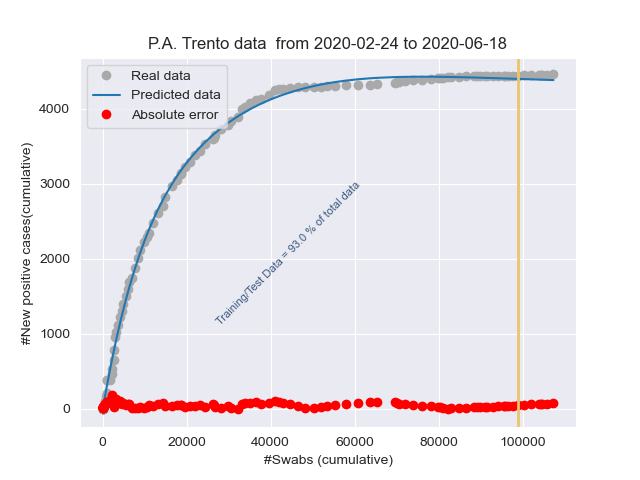
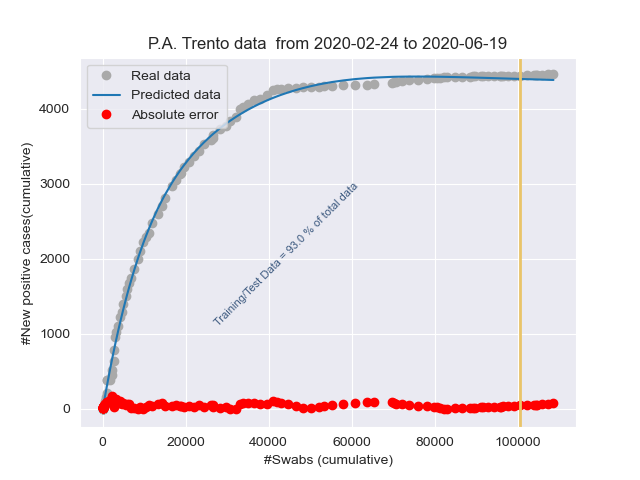
Add files via upload

diff --git a/stat_Friuli Venezia Giulia.html b/stat_Friuli Venezia Giulia.html
@@ -1,1 +1,1 @@
-<!DOCTYPE html><html lang="it"><head><title>Results</title><meta charset="utf-8"><meta name="viewport" content="width=device-width, initial-scale=1"><link rel="stylesheet" href="bootstrap.min.css"><script src="https://ajax.googleapis.com/ajax/libs/jquery/3.4.1/jquery.min.js"></script><script src="https://maxcdn.bootstrapcdn.com/bootstrap/3.4.1/js/bootstrap.min.js"></script></head><body><h3>Day: 2020-06-18</h3><p class="lead my-3">New positive cases: <b>2</b></p><p class="lead my-3">Variation of positive cases: <b>0.0%</b></p><p class="lead my-3">Number of swabs: <b>1421.0</b></p><p class="lead my-3">Variation of swabs: <b>0.86%</b></p><p class="lead my-3">Postive cases/Swabs: <b>0.14 %</b></p><p class="lead my-3">Number of people admitted to Intensive care: <b>1</b></p><p class="lead my-3">Number of recovered people: <b>4.0</b></p><p class="lead my-3">Number of dead people: <b>0.0</b></p><h3>Total</h3><p class="lead my-3">Population of  Friuli Venezia Giulia: <b>1215220</b> <a href="http://dati.istat.it/Index.aspx?QueryId=18548" target="_blank">ISTAT data</a></p><p class="lead my-3">Total number of positive cases from 2020-02-24 00:00:00 to 2020-06-18: <b> 3301</b></p><p class="lead my-3">Total number of swabs from 2020-02-24 00:00:00 to 2020-06-18: <b> 167485</b></p><p class="lead my-3">TotalSwabs/Population: <b> 13.78%</b></p></body></html>
+<!DOCTYPE html><html lang="it"><head><title>Results</title><meta charset="utf-8"><meta name="viewport" content="width=device-width, initial-scale=1"><link rel="stylesheet" href="bootstrap.min.css"><script src="https://ajax.googleapis.com/ajax/libs/jquery/3.4.1/jquery.min.js"></script><script src="https://maxcdn.bootstrapcdn.com/bootstrap/3.4.1/js/bootstrap.min.js"></script></head><body><h3>Day: 2020-06-19</h3><p class="lead my-3">New positive cases: <b>2</b></p><p class="lead my-3">Variation of positive cases: <b>0.0%</b></p><p class="lead my-3">Number of swabs: <b>2624.0</b></p><p class="lead my-3">Variation of swabs: <b>1.57%</b></p><p class="lead my-3">Postive cases/Swabs: <b>0.08 %</b></p><p class="lead my-3">Number of people admitted to Intensive care: <b>0</b></p><p class="lead my-3">Number of recovered people: <b>14.0</b></p><p class="lead my-3">Number of dead people: <b>0.0</b></p><h3>Total</h3><p class="lead my-3">Population of  Friuli Venezia Giulia: <b>1215220</b> <a href="http://dati.istat.it/Index.aspx?QueryId=18548" target="_blank">ISTAT data</a></p><p class="lead my-3">Total number of positive cases from 2020-02-24 00:00:00 to 2020-06-19: <b> 3303</b></p><p class="lead my-3">Total number of swabs from 2020-02-24 00:00:00 to 2020-06-19: <b> 170109</b></p><p class="lead my-3">TotalSwabs/Population: <b> 14.0%</b></p></body></html>

diff --git a/stat_Emilia-Romagna.html b/stat_Emilia-Romagna.html
@@ -1,1 +1,1 @@
-<!DOCTYPE html><html lang="it"><head><title>Results</title><meta charset="utf-8"><meta name="viewport" content="width=device-width, initial-scale=1"><link rel="stylesheet" href="bootstrap.min.css"><script src="https://ajax.googleapis.com/ajax/libs/jquery/3.4.1/jquery.min.js"></script><script src="https://maxcdn.bootstrapcdn.com/bootstrap/3.4.1/js/bootstrap.min.js"></script></head><body><h3>Day: 2020-06-18</h3><p class="lead my-3">New positive cases: <b>32</b></p><p class="lead my-3">Variation of positive cases: <b>128.57%</b></p><p class="lead my-3">Number of swabs: <b>8621.0</b></p><p class="lead my-3">Variation of swabs: <b>2.02%</b></p><p class="lead my-3">Postive cases/Swabs: <b>0.37 %</b></p><p class="lead my-3">Number of people admitted to Intensive care: <b>11</b></p><p class="lead my-3">Number of recovered people: <b>92.0</b></p><p class="lead my-3">Number of dead people: <b>4.0</b></p><h3>Total</h3><p class="lead my-3">Population of  Emilia-Romagna: <b>4459477</b> <a href="http://dati.istat.it/Index.aspx?QueryId=18548" target="_blank">ISTAT data</a></p><p class="lead my-3">Total number of positive cases from 2020-02-24 00:00:00 to 2020-06-18: <b> 28143</b></p><p class="lead my-3">Total number of swabs from 2020-02-24 00:00:00 to 2020-06-18: <b> 435351</b></p><p class="lead my-3">TotalSwabs/Population: <b> 9.76%</b></p></body></html>
+<!DOCTYPE html><html lang="it"><head><title>Results</title><meta charset="utf-8"><meta name="viewport" content="width=device-width, initial-scale=1"><link rel="stylesheet" href="bootstrap.min.css"><script src="https://ajax.googleapis.com/ajax/libs/jquery/3.4.1/jquery.min.js"></script><script src="https://maxcdn.bootstrapcdn.com/bootstrap/3.4.1/js/bootstrap.min.js"></script></head><body><h3>Day: 2020-06-19</h3><p class="lead my-3">New positive cases: <b>27</b></p><p class="lead my-3">Variation of positive cases: <b>-15.62%</b></p><p class="lead my-3">Number of swabs: <b>7950.0</b></p><p class="lead my-3">Variation of swabs: <b>1.83%</b></p><p class="lead my-3">Postive cases/Swabs: <b>0.34 %</b></p><p class="lead my-3">Number of people admitted to Intensive care: <b>11</b></p><p class="lead my-3">Number of recovered people: <b>84.0</b></p><p class="lead my-3">Number of dead people: <b>5.0</b></p><h3>Total</h3><p class="lead my-3">Population of  Emilia-Romagna: <b>4459477</b> <a href="http://dati.istat.it/Index.aspx?QueryId=18548" target="_blank">ISTAT data</a></p><p class="lead my-3">Total number of positive cases from 2020-02-24 00:00:00 to 2020-06-19: <b> 28170</b></p><p class="lead my-3">Total number of swabs from 2020-02-24 00:00:00 to 2020-06-19: <b> 443301</b></p><p class="lead my-3">TotalSwabs/Population: <b> 9.94%</b></p></body></html>

diff --git a/stat_Lombardia.html b/stat_Lombardia.html
@@ -1,1 +1,1 @@
-<!DOCTYPE html><html lang="it"><head><title>Results</title><meta charset="utf-8"><meta name="viewport" content="width=device-width, initial-scale=1"><link rel="stylesheet" href="bootstrap.min.css"><script src="https://ajax.googleapis.com/ajax/libs/jquery/3.4.1/jquery.min.js"></script><script src="https://maxcdn.bootstrapcdn.com/bootstrap/3.4.1/js/bootstrap.min.js"></script></head><body><h3>Day: 2020-06-18</h3><p class="lead my-3">New positive cases: <b>216</b></p><p class="lead my-3">Variation of positive cases: <b>-10.74%</b></p><p class="lead my-3">Number of swabs: <b>11475.0</b></p><p class="lead my-3">Variation of swabs: <b>1.25%</b></p><p class="lead my-3">Postive cases/Swabs: <b>1.88 %</b></p><p class="lead my-3">Number of people admitted to Intensive care: <b>60</b></p><p class="lead my-3">Number of recovered people: <b>505.0</b></p><p class="lead my-3">Number of dead people: <b>36.0</b></p><h3>Total</h3><p class="lead my-3">Population of  Lombardia: <b>10060574</b> <a href="http://dati.istat.it/Index.aspx?QueryId=18548" target="_blank">ISTAT data</a></p><p class="lead my-3">Total number of positive cases from 2020-02-24 00:00:00 to 2020-06-18: <b> 92512</b></p><p class="lead my-3">Total number of swabs from 2020-02-24 00:00:00 to 2020-06-18: <b> 929356</b></p><p class="lead my-3">TotalSwabs/Population: <b> 9.24%</b></p></body></html>
+<!DOCTYPE html><html lang="it"><head><title>Results</title><meta charset="utf-8"><meta name="viewport" content="width=device-width, initial-scale=1"><link rel="stylesheet" href="bootstrap.min.css"><script src="https://ajax.googleapis.com/ajax/libs/jquery/3.4.1/jquery.min.js"></script><script src="https://maxcdn.bootstrapcdn.com/bootstrap/3.4.1/js/bootstrap.min.js"></script></head><body><h3>Day: 2020-06-19</h3><p class="lead my-3">New positive cases: <b>157</b></p><p class="lead my-3">Variation of positive cases: <b>-27.31%</b></p><p class="lead my-3">Number of swabs: <b>10464.0</b></p><p class="lead my-3">Variation of swabs: <b>1.13%</b></p><p class="lead my-3">Postive cases/Swabs: <b>1.5 %</b></p><p class="lead my-3">Number of people admitted to Intensive care: <b>60</b></p><p class="lead my-3">Number of recovered people: <b>741.0</b></p><p class="lead my-3">Number of dead people: <b>18.0</b></p><h3>Total</h3><p class="lead my-3">Population of  Lombardia: <b>10060574</b> <a href="http://dati.istat.it/Index.aspx?QueryId=18548" target="_blank">ISTAT data</a></p><p class="lead my-3">Total number of positive cases from 2020-02-24 00:00:00 to 2020-06-19: <b> 92669</b></p><p class="lead my-3">Total number of swabs from 2020-02-24 00:00:00 to 2020-06-19: <b> 939820</b></p><p class="lead my-3">TotalSwabs/Population: <b> 9.34%</b></p></body></html>

diff --git a/stat_Italy.html b/stat_Italy.html
@@ -1,1 +1,1 @@
-<!DOCTYPE html><html lang="it"><head><title>Results</title><meta charset="utf-8"><meta name="viewport" content="width=device-width, initial-scale=1"><link rel="stylesheet" href="bootstrap.min.css"><script src="https://ajax.googleapis.com/ajax/libs/jquery/3.4.1/jquery.min.js"></script><script src="https://maxcdn.bootstrapcdn.com/bootstrap/3.4.1/js/bootstrap.min.js"></script></head><body><h3>Day: 2020-06-18</h3><p class="lead my-3">New positive cases: <b>333</b></p><p class="lead my-3">Variation of positive cases: <b>1.22%</b></p><p class="lead my-3">Number of swabs: <b>58154.0</b></p><p class="lead my-3">Variation of swabs: <b>1.22%</b></p><p class="lead my-3">Postive cases/Swabs: <b>0.57 %</b></p><p class="lead my-3">Number of people admitted to Intensive care: <b>168</b></p><p class="lead my-3">Number of recovered people: <b>1089.0</b></p><p class="lead my-3">Number of dead people: <b>66.0</b></p><h3>Total</h3><p class="lead my-3">Population of  Italy: <b>60359546</b> <a href="http://dati.istat.it/Index.aspx?QueryId=18548" target="_blank">ISTAT data</a></p><p class="lead my-3">Total number of positive cases from 2020-02-24 00:00:00 to 2020-06-18: <b> 238156</b></p><p class="lead my-3">Total number of swabs from 2020-02-24 00:00:00 to 2020-06-18: <b> 4831562</b></p><p class="lead my-3">TotalSwabs/Population: <b> 8.0%</b></p></body></html>
+<!DOCTYPE html><html lang="it"><head><title>Results</title><meta charset="utf-8"><meta name="viewport" content="width=device-width, initial-scale=1"><link rel="stylesheet" href="bootstrap.min.css"><script src="https://ajax.googleapis.com/ajax/libs/jquery/3.4.1/jquery.min.js"></script><script src="https://maxcdn.bootstrapcdn.com/bootstrap/3.4.1/js/bootstrap.min.js"></script></head><body><h3>Day: 2020-06-19</h3><p class="lead my-3">New positive cases: <b>251</b></p><p class="lead my-3">Variation of positive cases: <b>-24.62%</b></p><p class="lead my-3">Number of swabs: <b>57541.0</b></p><p class="lead my-3">Variation of swabs: <b>1.19%</b></p><p class="lead my-3">Postive cases/Swabs: <b>0.44 %</b></p><p class="lead my-3">Number of people admitted to Intensive care: <b>161</b></p><p class="lead my-3">Number of recovered people: <b>1363.0</b></p><p class="lead my-3">Number of dead people: <b>47.0</b></p><h3>Total</h3><p class="lead my-3">Population of  Italy: <b>60359546</b> <a href="http://dati.istat.it/Index.aspx?QueryId=18548" target="_blank">ISTAT data</a></p><p class="lead my-3">Total number of positive cases from 2020-02-24 00:00:00 to 2020-06-19: <b> 238407</b></p><p class="lead my-3">Total number of swabs from 2020-02-24 00:00:00 to 2020-06-19: <b> 4889103</b></p><p class="lead my-3">TotalSwabs/Population: <b> 8.1%</b></p></body></html>

diff --git a/stat_Piemonte.html b/stat_Piemonte.html
@@ -1,1 +1,1 @@
-<!DOCTYPE html><html lang="it"><head><title>Results</title><meta charset="utf-8"><meta name="viewport" content="width=device-width, initial-scale=1"><link rel="stylesheet" href="bootstrap.min.css"><script src="https://ajax.googleapis.com/ajax/libs/jquery/3.4.1/jquery.min.js"></script><script src="https://maxcdn.bootstrapcdn.com/bootstrap/3.4.1/js/bootstrap.min.js"></script></head><body><h3>Day: 2020-06-18</h3><p class="lead my-3">New positive cases: <b>31</b></p><p class="lead my-3">Variation of positive cases: <b>-24.39%</b></p><p class="lead my-3">Number of swabs: <b>3230.0</b></p><p class="lead my-3">Variation of swabs: <b>0.86%</b></p><p class="lead my-3">Postive cases/Swabs: <b>0.96 %</b></p><p class="lead my-3">Number of people admitted to Intensive care: <b>25</b></p><p class="lead my-3">Number of recovered people: <b>120.0</b></p><p class="lead my-3">Number of dead people: <b>6.0</b></p><h3>Total</h3><p class="lead my-3">Population of  Piemonte: <b>4356406</b> <a href="http://dati.istat.it/Index.aspx?QueryId=18548" target="_blank">ISTAT data</a></p><p class="lead my-3">Total number of positive cases from 2020-02-24 00:00:00 to 2020-06-18: <b> 31162</b></p><p class="lead my-3">Total number of swabs from 2020-02-24 00:00:00 to 2020-06-18: <b> 380395</b></p><p class="lead my-3">TotalSwabs/Population: <b> 8.73%</b></p></body></html>
+<!DOCTYPE html><html lang="it"><head><title>Results</title><meta charset="utf-8"><meta name="viewport" content="width=device-width, initial-scale=1"><link rel="stylesheet" href="bootstrap.min.css"><script src="https://ajax.googleapis.com/ajax/libs/jquery/3.4.1/jquery.min.js"></script><script src="https://maxcdn.bootstrapcdn.com/bootstrap/3.4.1/js/bootstrap.min.js"></script></head><body><h3>Day: 2020-06-19</h3><p class="lead my-3">New positive cases: <b>26</b></p><p class="lead my-3">Variation of positive cases: <b>-16.13%</b></p><p class="lead my-3">Number of swabs: <b>4310.0</b></p><p class="lead my-3">Variation of swabs: <b>1.13%</b></p><p class="lead my-3">Postive cases/Swabs: <b>0.6 %</b></p><p class="lead my-3">Number of people admitted to Intensive care: <b>22</b></p><p class="lead my-3">Number of recovered people: <b>131.0</b></p><p class="lead my-3">Number of dead people: <b>7.0</b></p><h3>Total</h3><p class="lead my-3">Population of  Piemonte: <b>4356406</b> <a href="http://dati.istat.it/Index.aspx?QueryId=18548" target="_blank">ISTAT data</a></p><p class="lead my-3">Total number of positive cases from 2020-02-24 00:00:00 to 2020-06-19: <b> 31188</b></p><p class="lead my-3">Total number of swabs from 2020-02-24 00:00:00 to 2020-06-19: <b> 384705</b></p><p class="lead my-3">TotalSwabs/Population: <b> 8.83%</b></p></body></html>

diff --git a/stat_P.A. Trento.html b/stat_P.A. Trento.html
@@ -1,1 +1,1 @@
-<!DOCTYPE html><html lang="it"><head><title>Results</title><meta charset="utf-8"><meta name="viewport" content="width=device-width, initial-scale=1"><link rel="stylesheet" href="bootstrap.min.css"><script src="https://ajax.googleapis.com/ajax/libs/jquery/3.4.1/jquery.min.js"></script><script src="https://maxcdn.bootstrapcdn.com/bootstrap/3.4.1/js/bootstrap.min.js"></script></head><body><h3>Day: 2020-06-18</h3><p class="lead my-3">New positive cases: <b>8</b></p><p class="lead my-3">Variation of positive cases: <b>700.0%</b></p><p class="lead my-3">Number of swabs: <b>1525.0</b></p><p class="lead my-3">Variation of swabs: <b>1.44%</b></p><p class="lead my-3">Postive cases/Swabs: <b>0.52 %</b></p><p class="lead my-3">Number of people admitted to Intensive care: <b>0</b></p><p class="lead my-3">Number of recovered people: <b>7.0</b></p><p class="lead my-3">Number of dead people: <b>0.0</b></p><h3>Total</h3><p class="lead my-3">Population of  P.A. Trento: <b>541098</b> <a href="http://dati.istat.it/Index.aspx?QueryId=18548" target="_blank">ISTAT data</a></p><p class="lead my-3">Total number of positive cases from 2020-02-24 00:00:00 to 2020-06-18: <b> 4457</b></p><p class="lead my-3">Total number of swabs from 2020-02-24 00:00:00 to 2020-06-18: <b> 107366</b></p><p class="lead my-3">TotalSwabs/Population: <b> 19.84%</b></p></body></html>
+<!DOCTYPE html><html lang="it"><head><title>Results</title><meta charset="utf-8"><meta name="viewport" content="width=device-width, initial-scale=1"><link rel="stylesheet" href="bootstrap.min.css"><script src="https://ajax.googleapis.com/ajax/libs/jquery/3.4.1/jquery.min.js"></script><script src="https://maxcdn.bootstrapcdn.com/bootstrap/3.4.1/js/bootstrap.min.js"></script></head><body><h3>Day: 2020-06-19</h3><p class="lead my-3">New positive cases: <b>1</b></p><p class="lead my-3">Variation of positive cases: <b>-87.5%</b></p><p class="lead my-3">Number of swabs: <b>1198.0</b></p><p class="lead my-3">Variation of swabs: <b>1.12%</b></p><p class="lead my-3">Postive cases/Swabs: <b>0.08 %</b></p><p class="lead my-3">Number of people admitted to Intensive care: <b>0</b></p><p class="lead my-3">Number of recovered people: <b>3.0</b></p><p class="lead my-3">Number of dead people: <b>1.0</b></p><h3>Total</h3><p class="lead my-3">Population of  P.A. Trento: <b>541098</b> <a href="http://dati.istat.it/Index.aspx?QueryId=18548" target="_blank">ISTAT data</a></p><p class="lead my-3">Total number of positive cases from 2020-02-24 00:00:00 to 2020-06-19: <b> 4458</b></p><p class="lead my-3">Total number of swabs from 2020-02-24 00:00:00 to 2020-06-19: <b> 108564</b></p><p class="lead my-3">TotalSwabs/Population: <b> 20.06%</b></p></body></html>

diff --git a/stat_Veneto.html b/stat_Veneto.html
@@ -1,1 +1,1 @@
-<!DOCTYPE html><html lang="it"><head><title>Results</title><meta charset="utf-8"><meta name="viewport" content="width=device-width, initial-scale=1"><link rel="stylesheet" href="bootstrap.min.css"><script src="https://ajax.googleapis.com/ajax/libs/jquery/3.4.1/jquery.min.js"></script><script src="https://maxcdn.bootstrapcdn.com/bootstrap/3.4.1/js/bootstrap.min.js"></script></head><body><h3>Day: 2020-06-18</h3><p class="lead my-3">New positive cases: <b>8</b></p><p class="lead my-3">Variation of positive cases: <b>100.0%</b></p><p class="lead my-3">Number of swabs: <b>10603.0</b></p><p class="lead my-3">Variation of swabs: <b>1.27%</b></p><p class="lead my-3">Postive cases/Swabs: <b>0.08 %</b></p><p class="lead my-3">Number of people admitted to Intensive care: <b>1</b></p><p class="lead my-3">Number of recovered people: <b>74.0</b></p><p class="lead my-3">Number of dead people: <b>7.0</b></p><h3>Total</h3><p class="lead my-3">Population of  Veneto: <b>4905854</b> <a href="http://dati.istat.it/Index.aspx?QueryId=18548" target="_blank">ISTAT data</a></p><p class="lead my-3">Total number of positive cases from 2020-02-24 00:00:00 to 2020-06-18: <b> 19232</b></p><p class="lead my-3">Total number of swabs from 2020-02-24 00:00:00 to 2020-06-18: <b> 847997</b></p><p class="lead my-3">TotalSwabs/Population: <b> 17.29%</b></p></body></html>
+<!DOCTYPE html><html lang="it"><head><title>Results</title><meta charset="utf-8"><meta name="viewport" content="width=device-width, initial-scale=1"><link rel="stylesheet" href="bootstrap.min.css"><script src="https://ajax.googleapis.com/ajax/libs/jquery/3.4.1/jquery.min.js"></script><script src="https://maxcdn.bootstrapcdn.com/bootstrap/3.4.1/js/bootstrap.min.js"></script></head><body><h3>Day: 2020-06-19</h3><p class="lead my-3">New positive cases: <b>2</b></p><p class="lead my-3">Variation of positive cases: <b>-75.0%</b></p><p class="lead my-3">Number of swabs: <b>10729.0</b></p><p class="lead my-3">Variation of swabs: <b>1.27%</b></p><p class="lead my-3">Postive cases/Swabs: <b>0.02 %</b></p><p class="lead my-3">Number of people admitted to Intensive care: <b>1</b></p><p class="lead my-3">Number of recovered people: <b>23.0</b></p><p class="lead my-3">Number of dead people: <b>4.0</b></p><h3>Total</h3><p class="lead my-3">Population of  Veneto: <b>4905854</b> <a href="http://dati.istat.it/Index.aspx?QueryId=18548" target="_blank">ISTAT data</a></p><p class="lead my-3">Total number of positive cases from 2020-02-24 00:00:00 to 2020-06-19: <b> 19234</b></p><p class="lead my-3">Total number of swabs from 2020-02-24 00:00:00 to 2020-06-19: <b> 858726</b></p><p class="lead my-3">TotalSwabs/Population: <b> 17.5%</b></p></body></html>

diff --git a/stat_Toscana.html b/stat_Toscana.html
@@ -1,1 +1,1 @@
-<!DOCTYPE html><html lang="it"><head><title>Results</title><meta charset="utf-8"><meta name="viewport" content="width=device-width, initial-scale=1"><link rel="stylesheet" href="bootstrap.min.css"><script src="https://ajax.googleapis.com/ajax/libs/jquery/3.4.1/jquery.min.js"></script><script src="https://maxcdn.bootstrapcdn.com/bootstrap/3.4.1/js/bootstrap.min.js"></script></head><body><h3>Day: 2020-06-18</h3><p class="lead my-3">New positive cases: <b>2</b></p><p class="lead my-3">Variation of positive cases: <b>0.0%</b></p><p class="lead my-3">Number of swabs: <b>3174.0</b></p><p class="lead my-3">Variation of swabs: <b>1.06%</b></p><p class="lead my-3">Postive cases/Swabs: <b>0.06 %</b></p><p class="lead my-3">Number of people admitted to Intensive care: <b>13</b></p><p class="lead my-3">Number of recovered people: <b>7.0</b></p><p class="lead my-3">Number of dead people: <b>1.0</b></p><h3>Total</h3><p class="lead my-3">Population of  Toscana: <b>3729641</b> <a href="http://dati.istat.it/Index.aspx?QueryId=18548" target="_blank">ISTAT data</a></p><p class="lead my-3">Total number of positive cases from 2020-02-24 00:00:00 to 2020-06-18: <b> 10195</b></p><p class="lead my-3">Total number of swabs from 2020-02-24 00:00:00 to 2020-06-18: <b> 303786</b></p><p class="lead my-3">TotalSwabs/Population: <b> 8.15%</b></p></body></html>
+<!DOCTYPE html><html lang="it"><head><title>Results</title><meta charset="utf-8"><meta name="viewport" content="width=device-width, initial-scale=1"><link rel="stylesheet" href="bootstrap.min.css"><script src="https://ajax.googleapis.com/ajax/libs/jquery/3.4.1/jquery.min.js"></script><script src="https://maxcdn.bootstrapcdn.com/bootstrap/3.4.1/js/bootstrap.min.js"></script></head><body><h3>Day: 2020-06-19</h3><p class="lead my-3">New positive cases: <b>10</b></p><p class="lead my-3">Variation of positive cases: <b>400.0%</b></p><p class="lead my-3">Number of swabs: <b>2703.0</b></p><p class="lead my-3">Variation of swabs: <b>0.89%</b></p><p class="lead my-3">Postive cases/Swabs: <b>0.37 %</b></p><p class="lead my-3">Number of people admitted to Intensive care: <b>12</b></p><p class="lead my-3">Number of recovered people: <b>23.0</b></p><p class="lead my-3">Number of dead people: <b>2.0</b></p><h3>Total</h3><p class="lead my-3">Population of  Toscana: <b>3729641</b> <a href="http://dati.istat.it/Index.aspx?QueryId=18548" target="_blank">ISTAT data</a></p><p class="lead my-3">Total number of positive cases from 2020-02-24 00:00:00 to 2020-06-19: <b> 10205</b></p><p class="lead my-3">Total number of swabs from 2020-02-24 00:00:00 to 2020-06-19: <b> 306489</b></p><p class="lead my-3">TotalSwabs/Population: <b> 8.22%</b></p></body></html>

diff --git a/stat_Campania.html b/stat_Campania.html
@@ -1,1 +1,1 @@
-<!DOCTYPE html><html lang="it"><head><title>Results</title><meta charset="utf-8"><meta name="viewport" content="width=device-width, initial-scale=1"><link rel="stylesheet" href="bootstrap.min.css"><script src="https://ajax.googleapis.com/ajax/libs/jquery/3.4.1/jquery.min.js"></script><script src="https://maxcdn.bootstrapcdn.com/bootstrap/3.4.1/js/bootstrap.min.js"></script></head><body><h3>Day: 2020-06-18</h3><p class="lead my-3">New positive cases: <b>1</b></p><p class="lead my-3">Variation of positive cases: <b>0.0%</b></p><p class="lead my-3">Number of swabs: <b>1448.0</b></p><p class="lead my-3">Variation of swabs: <b>0.56%</b></p><p class="lead my-3">Postive cases/Swabs: <b>0.07 %</b></p><p class="lead my-3">Number of people admitted to Intensive care: <b>6</b></p><p class="lead my-3">Number of recovered people: <b>17.0</b></p><p class="lead my-3">Number of dead people: <b>0.0</b></p><h3>Total</h3><p class="lead my-3">Population of  Campania: <b>5801692</b> <a href="http://dati.istat.it/Index.aspx?QueryId=18548" target="_blank">ISTAT data</a></p><p class="lead my-3">Total number of positive cases from 2020-02-24 00:00:00 to 2020-06-18: <b> 4615</b></p><p class="lead my-3">Total number of swabs from 2020-02-24 00:00:00 to 2020-06-18: <b> 259655</b></p><p class="lead my-3">TotalSwabs/Population: <b> 4.48%</b></p></body></html>
+<!DOCTYPE html><html lang="it"><head><title>Results</title><meta charset="utf-8"><meta name="viewport" content="width=device-width, initial-scale=1"><link rel="stylesheet" href="bootstrap.min.css"><script src="https://ajax.googleapis.com/ajax/libs/jquery/3.4.1/jquery.min.js"></script><script src="https://maxcdn.bootstrapcdn.com/bootstrap/3.4.1/js/bootstrap.min.js"></script></head><body><h3>Day: 2020-06-19</h3><p class="lead my-3">New positive cases: <b>0</b></p><p class="lead my-3">Variation of positive cases: <b>-100.0%</b></p><p class="lead my-3">Number of swabs: <b>1987.0</b></p><p class="lead my-3">Variation of swabs: <b>0.77%</b></p><p class="lead my-3">Postive cases/Swabs: <b>0.0 %</b></p><p class="lead my-3">Number of people admitted to Intensive care: <b>3</b></p><p class="lead my-3">Number of recovered people: <b>117.0</b></p><p class="lead my-3">Number of dead people: <b>0.0</b></p><h3>Total</h3><p class="lead my-3">Population of  Campania: <b>5801692</b> <a href="http://dati.istat.it/Index.aspx?QueryId=18548" target="_blank">ISTAT data</a></p><p class="lead my-3">Total number of positive cases from 2020-02-24 00:00:00 to 2020-06-19: <b> 4615</b></p><p class="lead my-3">Total number of swabs from 2020-02-24 00:00:00 to 2020-06-19: <b> 261642</b></p><p class="lead my-3">TotalSwabs/Population: <b> 4.51%</b></p></body></html>

diff --git a/stat_P.A. Bolzano.html b/stat_P.A. Bolzano.html
@@ -1,1 +1,1 @@
-<!DOCTYPE html><html lang="it"><head><title>Results</title><meta charset="utf-8"><meta name="viewport" content="width=device-width, initial-scale=1"><link rel="stylesheet" href="bootstrap.min.css"><script src="https://ajax.googleapis.com/ajax/libs/jquery/3.4.1/jquery.min.js"></script><script src="https://maxcdn.bootstrapcdn.com/bootstrap/3.4.1/js/bootstrap.min.js"></script></head><body><h3>Day: 2020-06-18</h3><p class="lead my-3">New positive cases: <b>2</b></p><p class="lead my-3">Variation of positive cases: <b>inf%</b></p><p class="lead my-3">Number of swabs: <b>724.0</b></p><p class="lead my-3">Variation of swabs: <b>0.94%</b></p><p class="lead my-3">Postive cases/Swabs: <b>0.28 %</b></p><p class="lead my-3">Number of people admitted to Intensive care: <b>2</b></p><p class="lead my-3">Number of recovered people: <b>4.0</b></p><p class="lead my-3">Number of dead people: <b>0.0</b></p><h3>Total</h3><p class="lead my-3">Population of  P.A. Bolzano: <b>531178</b> <a href="http://dati.istat.it/Index.aspx?QueryId=18548" target="_blank">ISTAT data</a></p><p class="lead my-3">Total number of positive cases from 2020-02-24 00:00:00 to 2020-06-18: <b> 2615</b></p><p class="lead my-3">Total number of swabs from 2020-02-24 00:00:00 to 2020-06-18: <b> 77954</b></p><p class="lead my-3">TotalSwabs/Population: <b> 14.68%</b></p></body></html>
+<!DOCTYPE html><html lang="it"><head><title>Results</title><meta charset="utf-8"><meta name="viewport" content="width=device-width, initial-scale=1"><link rel="stylesheet" href="bootstrap.min.css"><script src="https://ajax.googleapis.com/ajax/libs/jquery/3.4.1/jquery.min.js"></script><script src="https://maxcdn.bootstrapcdn.com/bootstrap/3.4.1/js/bootstrap.min.js"></script></head><body><h3>Day: 2020-06-19</h3><p class="lead my-3">New positive cases: <b>2</b></p><p class="lead my-3">Variation of positive cases: <b>0.0%</b></p><p class="lead my-3">Number of swabs: <b>626.0</b></p><p class="lead my-3">Variation of swabs: <b>0.8%</b></p><p class="lead my-3">Postive cases/Swabs: <b>0.32 %</b></p><p class="lead my-3">Number of people admitted to Intensive care: <b>1</b></p><p class="lead my-3">Number of recovered people: <b>12.0</b></p><p class="lead my-3">Number of dead people: <b>0.0</b></p><h3>Total</h3><p class="lead my-3">Population of  P.A. Bolzano: <b>531178</b> <a href="http://dati.istat.it/Index.aspx?QueryId=18548" target="_blank">ISTAT data</a></p><p class="lead my-3">Total number of positive cases from 2020-02-24 00:00:00 to 2020-06-19: <b> 2617</b></p><p class="lead my-3">Total number of swabs from 2020-02-24 00:00:00 to 2020-06-19: <b> 78580</b></p><p class="lead my-3">TotalSwabs/Population: <b> 14.79%</b></p></body></html>

diff --git a/stat_Marche.html b/stat_Marche.html
@@ -1,1 +1,1 @@
-<!DOCTYPE html><html lang="it"><head><title>Results</title><meta charset="utf-8"><meta name="viewport" content="width=device-width, initial-scale=1"><link rel="stylesheet" href="bootstrap.min.css"><script src="https://ajax.googleapis.com/ajax/libs/jquery/3.4.1/jquery.min.js"></script><script src="https://maxcdn.bootstrapcdn.com/bootstrap/3.4.1/js/bootstrap.min.js"></script></head><body><h3>Day: 2020-06-18</h3><p class="lead my-3">New positive cases: <b>4</b></p><p class="lead my-3">Variation of positive cases: <b>300.0%</b></p><p class="lead my-3">Number of swabs: <b>1569.0</b></p><p class="lead my-3">Variation of swabs: <b>1.27%</b></p><p class="lead my-3">Postive cases/Swabs: <b>0.25 %</b></p><p class="lead my-3">Number of people admitted to Intensive care: <b>0</b></p><p class="lead my-3">Number of recovered people: <b>12.0</b></p><p class="lead my-3">Number of dead people: <b>0.0</b></p><h3>Total</h3><p class="lead my-3">Population of  Marche: <b>1525271</b> <a href="http://dati.istat.it/Index.aspx?QueryId=18548" target="_blank">ISTAT data</a></p><p class="lead my-3">Total number of positive cases from 2020-02-24 00:00:00 to 2020-06-18: <b> 6768</b></p><p class="lead my-3">Total number of swabs from 2020-02-24 00:00:00 to 2020-06-18: <b> 125339</b></p><p class="lead my-3">TotalSwabs/Population: <b> 8.22%</b></p></body></html>
+<!DOCTYPE html><html lang="it"><head><title>Results</title><meta charset="utf-8"><meta name="viewport" content="width=device-width, initial-scale=1"><link rel="stylesheet" href="bootstrap.min.css"><script src="https://ajax.googleapis.com/ajax/libs/jquery/3.4.1/jquery.min.js"></script><script src="https://maxcdn.bootstrapcdn.com/bootstrap/3.4.1/js/bootstrap.min.js"></script></head><body><h3>Day: 2020-06-19</h3><p class="lead my-3">New positive cases: <b>0</b></p><p class="lead my-3">Variation of positive cases: <b>-100.0%</b></p><p class="lead my-3">Number of swabs: <b>1041.0</b></p><p class="lead my-3">Variation of swabs: <b>0.83%</b></p><p class="lead my-3">Postive cases/Swabs: <b>0.0 %</b></p><p class="lead my-3">Number of people admitted to Intensive care: <b>0</b></p><p class="lead my-3">Number of recovered people: <b>17.0</b></p><p class="lead my-3">Number of dead people: <b>0.0</b></p><h3>Total</h3><p class="lead my-3">Population of  Marche: <b>1525271</b> <a href="http://dati.istat.it/Index.aspx?QueryId=18548" target="_blank">ISTAT data</a></p><p class="lead my-3">Total number of positive cases from 2020-02-24 00:00:00 to 2020-06-19: <b> 6768</b></p><p class="lead my-3">Total number of swabs from 2020-02-24 00:00:00 to 2020-06-19: <b> 126380</b></p><p class="lead my-3">TotalSwabs/Population: <b> 8.29%</b></p></body></html>

diff --git a/stat_Puglia.html b/stat_Puglia.html
@@ -1,1 +1,1 @@
-<!DOCTYPE html><html lang="it"><head><title>Results</title><meta charset="utf-8"><meta name="viewport" content="width=device-width, initial-scale=1"><link rel="stylesheet" href="bootstrap.min.css"><script src="https://ajax.googleapis.com/ajax/libs/jquery/3.4.1/jquery.min.js"></script><script src="https://maxcdn.bootstrapcdn.com/bootstrap/3.4.1/js/bootstrap.min.js"></script></head><body><h3>Day: 2020-06-18</h3><p class="lead my-3">New positive cases: <b>3</b></p><p class="lead my-3">Variation of positive cases: <b>inf%</b></p><p class="lead my-3">Number of swabs: <b>2439.0</b></p><p class="lead my-3">Variation of swabs: <b>1.58%</b></p><p class="lead my-3">Postive cases/Swabs: <b>0.12 %</b></p><p class="lead my-3">Number of people admitted to Intensive care: <b>1</b></p><p class="lead my-3">Number of recovered people: <b>19.0</b></p><p class="lead my-3">Number of dead people: <b>2.0</b></p><h3>Total</h3><p class="lead my-3">Population of  Puglia: <b>4029053</b> <a href="http://dati.istat.it/Index.aspx?QueryId=18548" target="_blank">ISTAT data</a></p><p class="lead my-3">Total number of positive cases from 2020-02-24 00:00:00 to 2020-06-18: <b> 4519</b></p><p class="lead my-3">Total number of swabs from 2020-02-24 00:00:00 to 2020-06-18: <b> 156582</b></p><p class="lead my-3">TotalSwabs/Population: <b> 3.89%</b></p></body></html>
+<!DOCTYPE html><html lang="it"><head><title>Results</title><meta charset="utf-8"><meta name="viewport" content="width=device-width, initial-scale=1"><link rel="stylesheet" href="bootstrap.min.css"><script src="https://ajax.googleapis.com/ajax/libs/jquery/3.4.1/jquery.min.js"></script><script src="https://maxcdn.bootstrapcdn.com/bootstrap/3.4.1/js/bootstrap.min.js"></script></head><body><h3>Day: 2020-06-19</h3><p class="lead my-3">New positive cases: <b>1</b></p><p class="lead my-3">Variation of positive cases: <b>-66.67%</b></p><p class="lead my-3">Number of swabs: <b>2246.0</b></p><p class="lead my-3">Variation of swabs: <b>1.43%</b></p><p class="lead my-3">Postive cases/Swabs: <b>0.04 %</b></p><p class="lead my-3">Number of people admitted to Intensive care: <b>1</b></p><p class="lead my-3">Number of recovered people: <b>52.0</b></p><p class="lead my-3">Number of dead people: <b>0.0</b></p><h3>Total</h3><p class="lead my-3">Population of  Puglia: <b>4029053</b> <a href="http://dati.istat.it/Index.aspx?QueryId=18548" target="_blank">ISTAT data</a></p><p class="lead my-3">Total number of positive cases from 2020-02-24 00:00:00 to 2020-06-19: <b> 4520</b></p><p class="lead my-3">Total number of swabs from 2020-02-24 00:00:00 to 2020-06-19: <b> 158828</b></p><p class="lead my-3">TotalSwabs/Population: <b> 3.94%</b></p></body></html>
